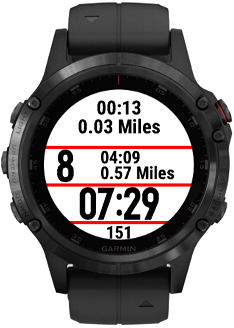
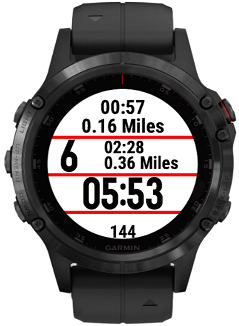
Tweaked interval recovery view so it's more readable

diff --git a/interval-datafield-main/README.md b/interval-datafield-main/README.md
@@ -1,4 +1,4 @@
-A datascreen useful for interval training. When I run hill intervals or sprint intervals, even "laps" are my efforts and odd "laps" are recoveries so I wanted a datascreen that shows different information on even & odd laps, even ones I need just the salient details of lap pace, lap duration, lap time and current heart rate. On the odd laps I can afford to spend longer looking at my watch so can show a more complicated screen. On recoveries the screen alternates every 4 seconds. The first recovery lap screen shows current recovery lap stats as well as overall time and distance and the second recovery lap screen shows average lap pace along with pace of the last 8 laps colour coded based on whether they were faster or slower than average.
+A datascreen useful for interval training. When I run hill intervals or sprint intervals, even "laps" are my efforts and odd "laps" are recoveries so I wanted a datascreen that shows different information on even & odd laps, even ones I need just the salient details of lap pace, lap duration, lap time and current heart rate. On the odd laps I can afford to spend longer looking at my watch so can show a more complicated screen. On recoveries the screen alternates every 4 seconds. The first recovery lap screen shows current recovery lap stats as well as overall time and distance and the second recovery lap screen shows average lap pace along with pace of the last 6 laps colour coded based on whether they were faster or slower than average.
   
 Active Lap Screen:  
 ![active](screenshots/active.png "screenshot")
